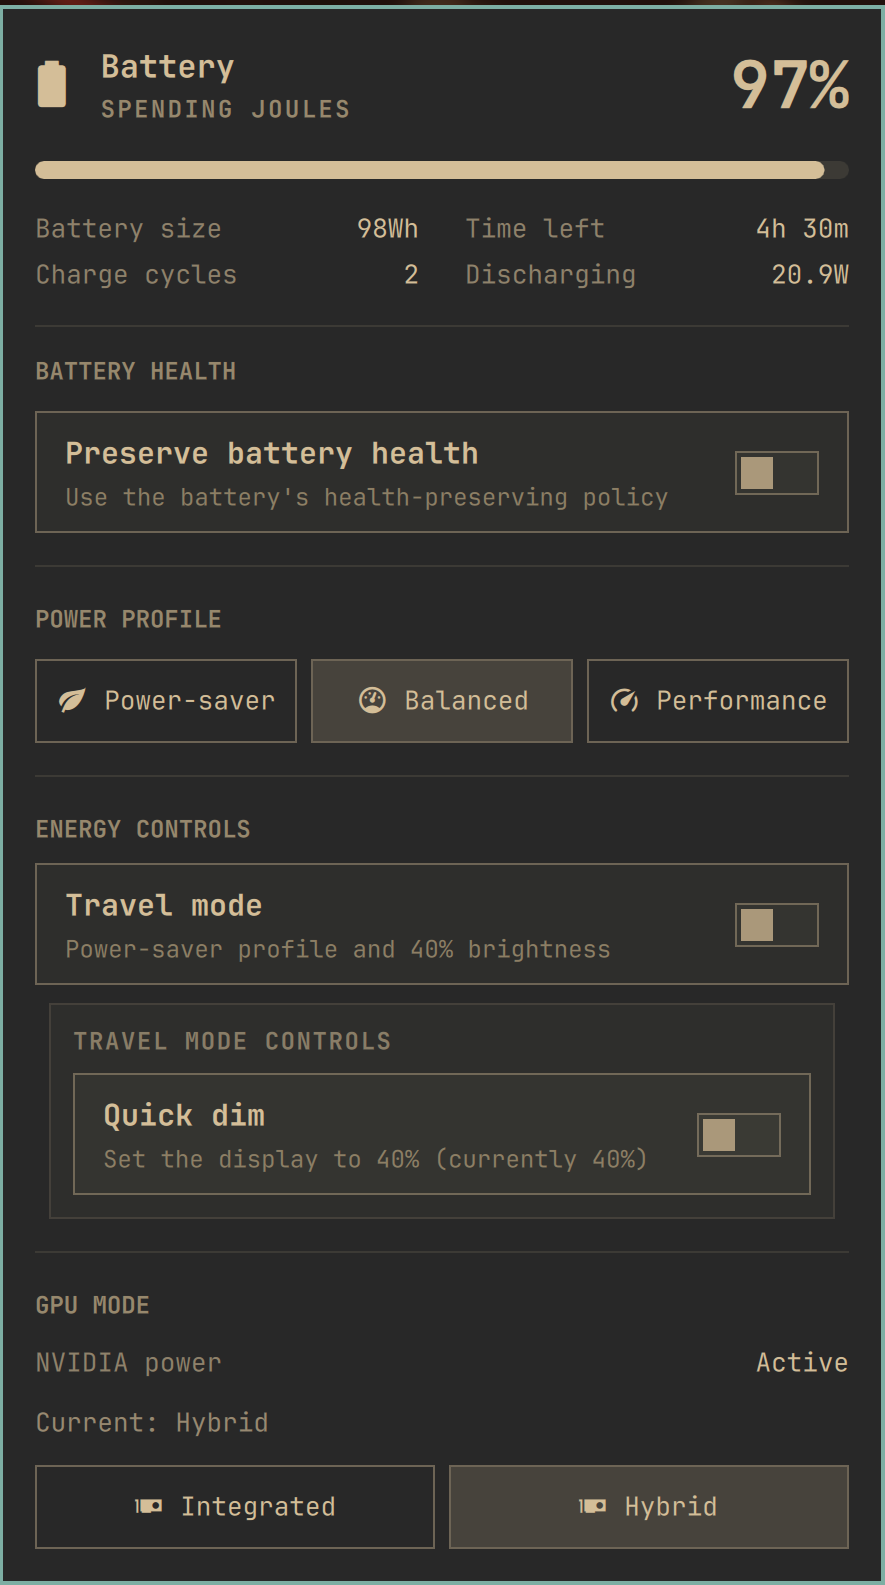
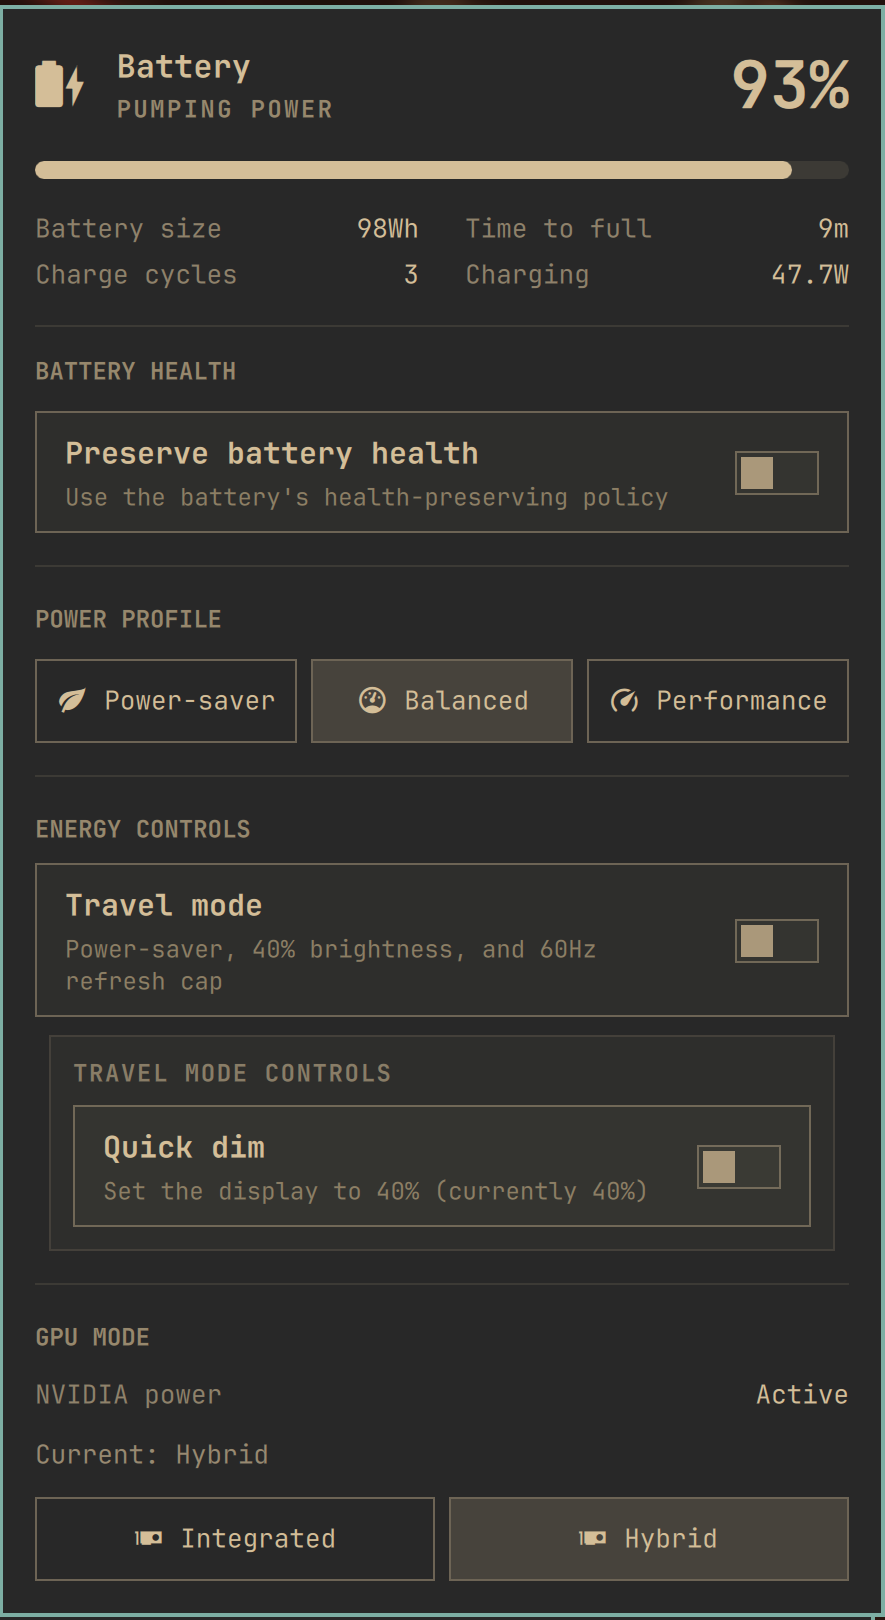
fix: harden travel refresh-rate restore

diff --git a/Panel.qml b/Panel.qml
@@ -873,7 +873,7 @@ Panel {
           Toggle {
             width: parent.width
             label: "Travel mode"
-            description: "Power-saver profile and 40% brightness"
+            description: "Power-saver, 40% brightness, and 60Hz refresh cap"
             checked: root.travelMode
             enabled: !energyActionProc.running
             foreground: root.bar.foreground

diff --git a/README.md b/README.md
@@ -101,6 +101,8 @@ It preserves and extends work from:
 - [Battery Health for Omarchy](https://github.com/patcastle/omarchy-battery-health)
   by Patrick Castiglia, which provides the original UPower charge-threshold
   integration.
+- [I. Saborit](https://github.com/iSaborit), who contributed the reversible
+  Hyprland refresh-rate limiter used by Travel Mode.
 
 See [THIRD_PARTY_NOTICES.md](THIRD_PARTY_NOTICES.md) for detailed attribution
 and [LICENSE](LICENSE) for all retained MIT copyright notices.

diff --git a/THIRD_PARTY_NOTICES.md b/THIRD_PARTY_NOTICES.md
@@ -38,6 +38,9 @@ The combined layout, Travel Mode, Quick Dim, NVIDIA runtime-power reporting,
 capability gating, state refresh, tests, and related safety handling were added
 for Laptop Power Center.
 
+The reversible Hyprland refresh-rate limiter was contributed by I. Saborit
+([@iSaborit](https://github.com/iSaborit)).
+
 - Copyright: 2026 Carlos Bay-Schmith
 - License: MIT
 
